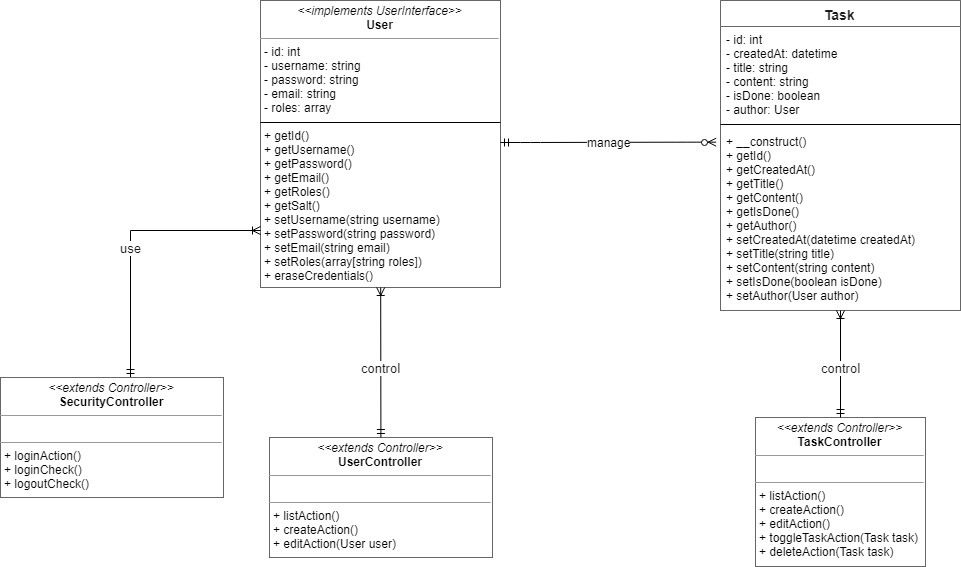
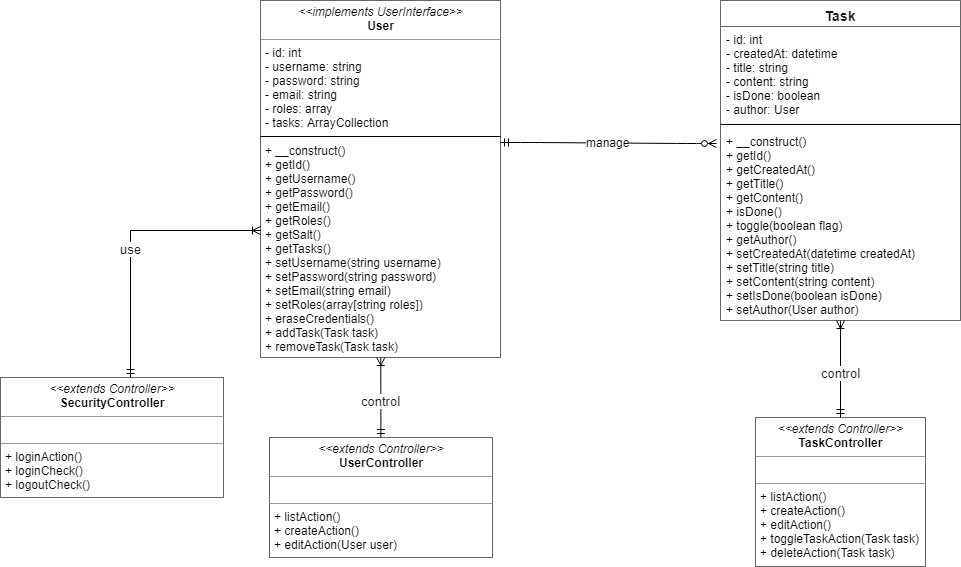
Task linked to current user & command to update old anonymous tasks

diff --git a/src/AppBundle/Entity/User.php b/src/AppBundle/Entity/User.php
@@ -3,6 +3,7 @@
 namespace AppBundle\Entity;
 
 use Doctrine\ORM\Mapping as ORM;
+use Doctrine\Common\Collections\ArrayCollection;
 use Symfony\Component\Security\Core\User\UserInterface;
 use Symfony\Component\Validator\Constraints as Assert;
 use Symfony\Bridge\Doctrine\Validator\Constraints\UniqueEntity;
@@ -39,52 +40,153 @@ class User implements UserInterface
      */
     private $email;
 
+    /**
+     * @ORM\OneToMany(targetEntity="Task", mappedBy="author", cascade={"remove"})
+     */
+    private $tasks;
+
+    public function __construct()
+    {
+        $this->tasks = new ArrayCollection();
+    }
+
+    /**
+     * Get id
+     *
+     * @return int
+     */
     public function getId()
     {
         return $this->id;
     }
 
+    /**
+     * Get username
+     *
+     * @return string
+     */
     public function getUsername()
     {
         return $this->username;
     }
 
+    /**
+     * Set username
+     *
+     * @param string $username
+     */
     public function setUsername($username)
     {
         $this->username = $username;
     }
 
+    /**
+     * Get salt
+     *
+     * @return null
+     */
     public function getSalt()
     {
         return null;
     }
 
+    /**
+     * Get password
+     *
+     * @return string
+     */
     public function getPassword()
     {
         return $this->password;
     }
 
+    /**
+     * Set password
+     *
+     * @param string $password
+     */
     public function setPassword($password)
     {
         $this->password = $password;
     }
 
+    /**
+     * Get email
+     *
+     * @return string
+     */
     public function getEmail()
     {
         return $this->email;
     }
 
+    /**
+     * Set email
+     *
+     * @param string $email
+     */
     public function setEmail($email)
     {
         $this->email = $email;
     }
 
+    /**
+     * Get roles
+     *
+     * @return array
+     */
     public function getRoles()
     {
         return array('ROLE_USER');
     }
 
+    /**
+     * Set roles
+     *
+     * @param array
+     */
+    public function setRoles(array $roles)
+    {
+        $this->roles = $roles;
+    }
+
+    /**
+     * Erase credentials
+     */
     public function eraseCredentials()
     {
+    }
+
+    /**
+     * Add task
+     *
+     * @param Task $task
+     *
+     * @return User
+     */
+    public function addTask(Task $task)
+    {
+        $this->tasks[] = $task;
+        $task->setUser($this);
+
+        return $this;
+    }
+    /**
+     * Remove task
+     *
+     * @param Task $task
+     */
+    public function removeTask(Task $task)
+    {
+        $this->tasks->removeElement($task);
+    }
+    /**
+     * Get tasks
+     *
+     * @return string
+     */
+    public function getTasks()
+    {
+        return $this->tasks;
     }
 }

diff --git a/src/AppBundle/Command/UpdateOldTasksCommand.php b/src/AppBundle/Command/UpdateOldTasksCommand.php
@@ -1,0 +1,92 @@
+<?php
+
+namespace AppBundle\Command;
+
+use Symfony\Component\Console\Command\Command;
+use Symfony\Component\Console\Input\InputInterface;
+use Symfony\Component\Console\Output\OutputInterface;
+use Symfony\Component\Security\Core\Encoder\UserPasswordEncoderInterface;
+use Doctrine\ORM\EntityManagerInterface;
+use AppBundle\Entity\User;
+use AppBundle\Entity\Task;
+
+class UpdateOldTasksCommand extends Command
+{
+    private $em;
+    private $encoder;
+
+    public function __construct(EntityManagerInterface $em, UserPasswordEncoderInterface $encoder)
+    {
+        parent::__construct();
+
+        $this->em = $em;
+        $this->encoder = $encoder;
+    }
+
+    protected function configure()
+    {
+        $this
+            ->setName('todolist:oldtasks:update')
+            ->setDescription('Updates old tasks without author to set anonymous author')
+            ->setHelp('This command updates old tasks without authors')
+        ;
+    }
+
+    protected function execute(InputInterface $input, OutputInterface $output)
+    {
+        $application = $this->getApplication();
+        $application->setAutoExit(false);
+
+        // Get anonymous user
+        $anonymous = $this->getAnonymousUser();
+
+        $tasks = $this->em->getRepository('AppBundle:Task')->findAll();
+        $count = 0;
+        foreach ($tasks as $task) {
+            if (null === $task->getAuthor()) {
+                $task->setAuthor($anonymous);
+                $count++;
+            }
+        }
+        $this->em->flush();
+
+        $feedback = $count === 0 ? 'No task without author were found.' : 'All users without author have been updated with anonymous author';
+
+        $output->writeln($feedback);
+    }
+
+    /**
+     * Get anonymous user
+     *
+     * @return User
+     */
+    private function getAnonymousUser()
+    {
+        $existing = $this->em->getRepository('AppBundle:User')->findOneByUsername('Anonymous');
+        $user = $existing !== null ?: $this->createAnonymousUser();
+
+        return $user;
+    }
+
+    /**
+     * Create anonymous user
+     *
+     * @return User
+     */
+    private function createAnonymousUser()
+    {
+        $anonymous = new User();
+        $plainPassword = 'anonymousPassword';
+        $encoded = $this->encoder->encodePassword($anonymous, $plainPassword);
+
+        $anonymous->setUsername('Anonymous');
+        $anonymous->setPassword($encoded);
+        $anonymous->setEmail('anonymous@anonym.ous');
+        $anonymous->setRoles(['ROLE_USER']);
+
+        $this->em->persist($anonymous);
+        $this->em->flush();
+
+        return $anonymous;
+    }
+}

diff --git a/src/AppBundle/Entity/Task.php b/src/AppBundle/Entity/Task.php
@@ -40,54 +40,124 @@ class Task
      */
     private $isDone;
 
+    /**
+     * @ORM\ManyToOne(targetEntity="User", inversedBy="tasks")
+     */
+    private $author;
+
     public function __construct()
     {
         $this->createdAt = new \Datetime();
         $this->isDone = false;
     }
 
+    /**
+     * Get id
+     *
+     * @return int
+     */
     public function getId()
     {
         return $this->id;
     }
 
+    /**
+     * Get createdAt
+     *
+     * @return \Datetime()
+     */
     public function getCreatedAt()
     {
         return $this->createdAt;
     }
 
+    /**
+     * Set createdAt
+     *
+     * @param \Datetime() $createdAt
+     */
     public function setCreatedAt($createdAt)
     {
         $this->createdAt = $createdAt;
     }
 
+    /**
+     * Get title
+     *
+     * @return string
+     */
     public function getTitle()
     {
         return $this->title;
     }
 
+    /**
+     * Set title
+     *
+     * @param string $title
+     */
     public function setTitle($title)
     {
         $this->title = $title;
     }
 
+    /**
+     * Get content
+     *
+     * @return string
+     */
     public function getContent()
     {
         return $this->content;
     }
 
+    /**
+     * Set content
+     *
+     * @param string $content
+     */
     public function setContent($content)
     {
         $this->content = $content;
     }
 
+    /**
+     * Get isDone
+     *
+     * @return bool
+     */
     public function isDone()
     {
         return $this->isDone;
     }
 
+    /**
+     * Toggle task state
+     *
+     * @param  bool $flag
+     */
     public function toggle($flag)
     {
         $this->isDone = $flag;
+    }
+
+    /**
+     * Get author
+     *
+     * @return string
+     */
+    public function getAuthor()
+    {
+        return $this->author;
+    }
+
+    /**
+     * Set author
+     *
+     * @param User $author
+     */
+    public function setAuthor(User $author)
+    {
+        $this->author = $author;
     }
 }

diff --git a/src/AppBundle/Controller/TaskController.php b/src/AppBundle/Controller/TaskController.php
@@ -24,6 +24,9 @@ class TaskController extends Controller
     public function createAction(Request $request)
     {
         $task = new Task();
+        $user = $this->getUser();
+        $task->setAuthor($user);
+
         $form = $this->createForm(TaskType::class, $task);
 
         $form->handleRequest($request);
